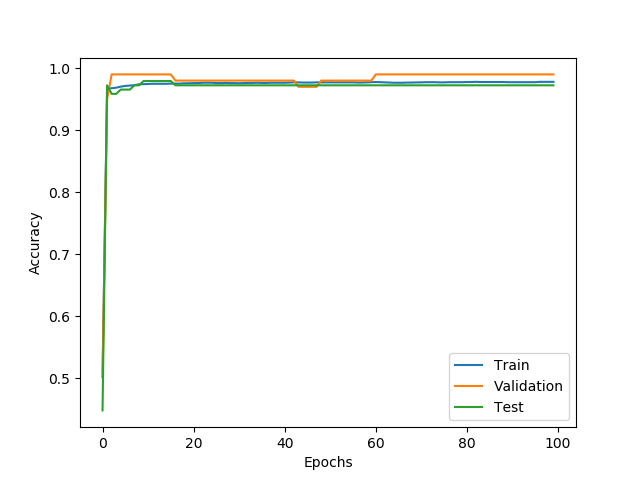
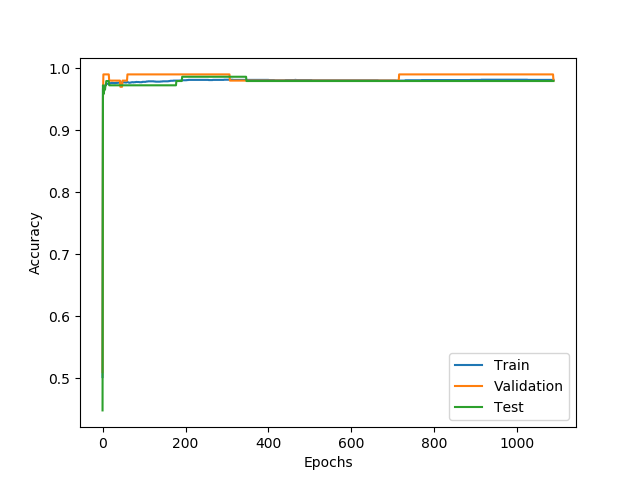
fixed eroor measure

diff --git a/a1/code/starter.py b/a1/code/starter.py
@@ -127,11 +127,12 @@ def grad_descent(W, b, x, y, alpha, epochs, reg, error_tol=0.0000001, val_data=[
         acc_valid.append(compute_accuracy(W, b, val_data[0], val_data[1]))
         acc_test.append(compute_accuracy(W, b, test_data[0], test_data[1]))
         # adjust the weight and biases
+        old_w=np.concatenate((W.reshape(-1,1),np.array([b]).reshape(-1,1)))
         W = W - alpha * W_grad
         b = b - alpha * b_grad
         # stop the training loop if the error is lower than the error_tolerance
         #print("Epoch error ", epoch_error)
-        if epoch_error <= error_tol:
+        if np.abs(np.linalg.norm(old_w)-np.linalg.norm(np.concatenate((W.reshape(-1,1),np.array([b]).reshape(-1,1))))) <= error_tol:
             break
     plot_trend([error_train, error_valid, error_test],
                data_title="Loss of Train, Validation and Test Data with alpha = 0.0005, lambda = 0.5", y_label="Loss")
@@ -167,8 +168,8 @@ trainData, validData, testData, trainTarget, validTarget, testTarget = loadData(
 W = np.random.randint(1, size=(28 * 28,))
 W = np.random.random((28 * 28,))
 b = 0.5
-reg = 0
-epoch = 100
+reg = 0.5
+epoch = 5000
 lossType='CE'
 lossTypeDic={'MSE':gradMSE, 'CE':gradCE}
 errorTypeDic = {'MSE': MSE, 'CE': CrossEntropyLoss}
